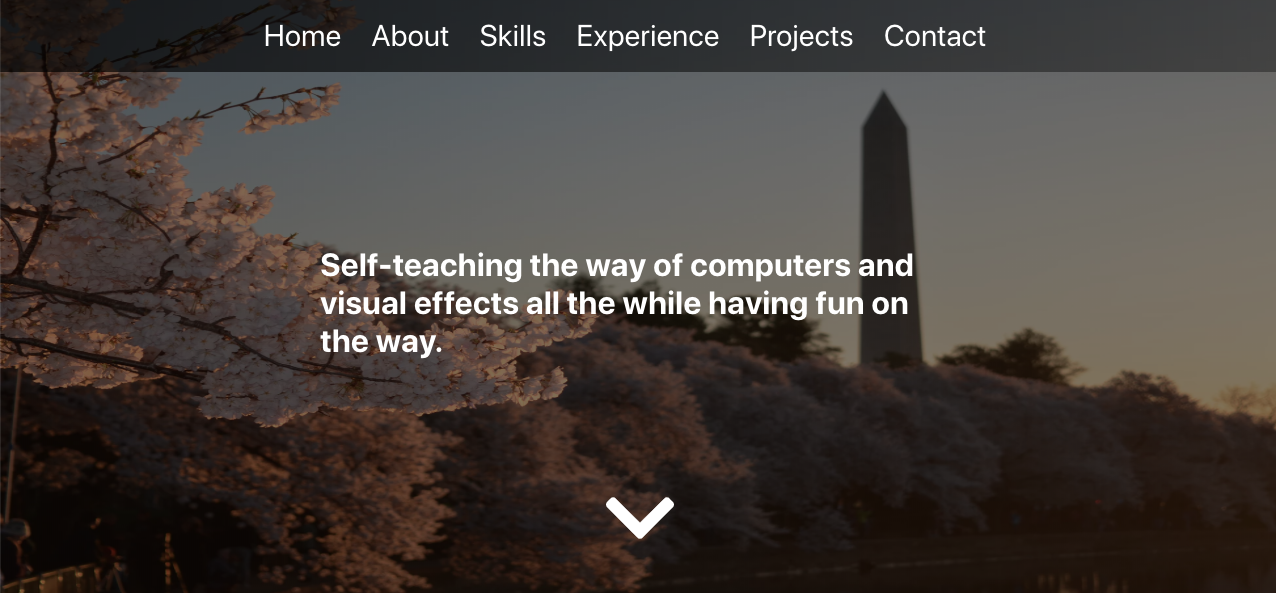
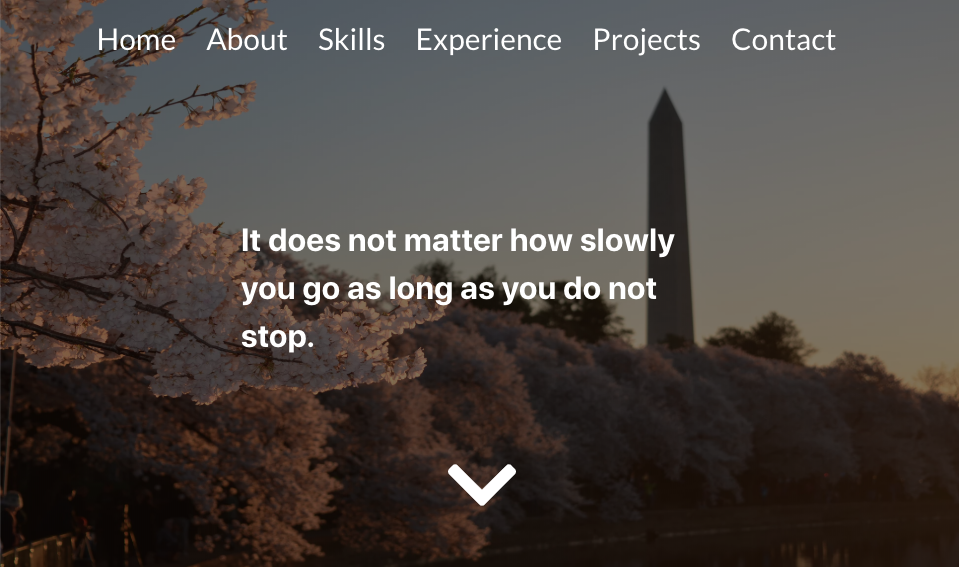
refinements

diff --git a/src/App.js b/src/App.js
@@ -195,7 +195,7 @@ class Home extends React.Component{
   render(){
   return(
     <div className='aboutLeft'>
-   
+    
     <img  //src='https://images.unsplash.com/photo-1539418561314-565804e349c0?ixlib=rb-1.2.1&ixid=eyJhcHBfaWQiOjEyMDd9&w=1000&q=80'
     src='https://i.pinimg.com/originals/84/00/1b/84001be065400e901334218eee95912e.gif'
     alt='University of Maryland Mascot'
@@ -252,41 +252,22 @@ class About extends React.Component{
 
 
 class Skills extends React.Component{
-  constructor(props){
-    super(props);
-    this.state={
-      iconLabel:{'display':'none'},iconShow:{opacity:0.7}
-    }
-   this.handleHover=this.handleHover.bind(this);
-  this.handleLeave=this.handleLeave.bind(this);
-  }
- 
-  handleHover(){
-    //this.setState({iconLabel:{'display':'block'},iconShow:{opacity:1}})
-  }
   
-  handleLeave(){
-     //this.setState({iconLabel:{'display':'none'},iconShow:{opacity:0.7}})
-  }
    render(){
     return(
     <div className='skills'>
       <ul className="tools">
-        <li><img //onMouseEnter={this.handleHover} 
-      //onMouseLeave=  {this.handleLeave}      
-             // style={this.state.iconShow} 
+        <li><img 
              alt='html icon'
               className='toolIcon' src='https://caleb-ellis.github.io/assets/img/html5.svg'/>
-          <p   //style={this.state.iconLabel}
+          <p   
           >HTML5</p>
         </li>
         <li><img 
-              //onMouseEnter={this.handleHover} 
-     // onMouseLeave=  {this.handleLeave}      
-             // style={this.state.iconShow} 
+              
              alt='css icon'
               className='toolIcon' src='https://caleb-ellis.github.io/assets/img/css3.svg'/>
-          <p //style={this.state.iconLabel}
+          <p 
           >CSS3</p>
         </li>
          <li><img className='toolIcon' src='https://caleb-ellis.github.io/assets/img/js.png'  alt='JavaScript icon'/>
@@ -355,7 +336,7 @@ class Projects extends React.Component{
              <img  alt='css icon'
              src='https://www.icustomweb.com/icw-content/uploads/2018/01/css3-white.png'/>
                <img  alt='jQuery icon'
-             src='https://flaticons.net/gd/makefg.php?i=icons/Brand%20Identity/Logo-JQuery.png&r=255&g=255&b=255'/>
+             src='https://caleb-ellis.github.io/assets/img/jquery.svg'/>
   </div></a>
 </div>
         </div>
@@ -426,9 +407,10 @@ class Footer extends React.Component{
          <span className='cell '>
           <a href="tel:240-704-2290">
           <img  alt='phone icon'
-          src='https://www.rightnetworks.com/assets/phone-icon-circle-white.png'/>
+          src={require('/Users/tofik-umd/Desktop/portfolio/src/assets/phone-icon-circle-white.png')}/>
           <a className='phone'>240-704-2290</a>
           </a></span>
+           
           <span className='emaill'>
           <a href="mailto:aquat3@gmail.com">
           <img  alt='email icon'
@@ -482,14 +464,29 @@ class Portfolio extends React.Component{
          <Home/>
       
          <div className='main-content'>
-        <h2 id='about'>About Me</h2>
+         <ScrollAnimation animateOnce={true} animateIn='zoomIn' duration={0.3}>
+           <h2 id='about'>About Me</h2>
+           </ScrollAnimation>
+       
        <About/>
+
+       <ScrollAnimation animateOnce={true} animateIn='zoomIn' duration={0.3}> 
         <h2 id='skills'>Skills</h2>
+        
+
         <Skills/>
+        </ScrollAnimation>
+
+        <ScrollAnimation animateOnce={true} animateIn='zoomIn' duration={0.3}> 
         <h2 id='experience'>Experience</h2>
+        
         <Experience/>
+        </ScrollAnimation>
+        <ScrollAnimation animateOnce={true} animateIn='zoomIn' duration={0.3}> 
         <h2 id='projects'>Projects</h2>
+        
         <Projects/>
+       </ScrollAnimation>
         </div>
        
         <Footer/>

diff --git a/src/App.css b/src/App.css
@@ -26,7 +26,7 @@
     background: linear-gradient(rgba(0, 0, 0, 0.5), rgba(0, 0, 0, 0.5)), url('https://images.unsplash.com/photo-1429019885980-e07c0774c492?ixlib=rb-1.2.1&ixid=eyJhcHBfaWQiOjEyMDd9&auto=format&fit=crop&w=1955&q=80');
    background-repeat: no-repeat;
    background-size: 100% 100%;
-   
+   text-align:center;
     color:white;
 }
 ::selection {
@@ -52,6 +52,10 @@ svg:not(:root) {
 }
 .fullMenu{
   display:none;
+}
+
+.fullMenu li{
+  font-size:2rem;
 }
 .navBar ul{
   border:0px solid red;
@@ -298,7 +302,7 @@ text-decoration:none;
    background-size: 100% 100%;
 }
 .tic{
-  background:url('../src/assets/TicTacToe.jpg');
+  background:url('../src/assets/tictactoe.jpg');
   background-repeat: no-repeat;
    background-size: 100% 100%;
 }
@@ -321,10 +325,14 @@ background:#93d7ff;
   width:100vw;
 }
 .leftFoot{
-  border:0px solid red;
+  border:0px solid black;
   width:45%;
   display:inline-block;
   list-style:none;
+}
+.leftFoot li{
+  border:0px solid red;
+  text-align:center;
 }
 .leftFoot h3{
   text-align:center;
@@ -397,7 +405,13 @@ filter: brightness(0) invert(1);
 .copyright-mobile{
   display:none;
 }
- @media screen and (max-width: 650px){
+ @media screen and (max-width: 800px){
+.hero{
+  position:relative;
+}
+.proj:focus .proj-desc{
+  display:block;
+}
 
 .projects{
    
@@ -586,4 +600,7 @@ padding:10px;
   width:30%;
 }
   
+.cont{
+  margin-bottom:0px;
+}
 }
